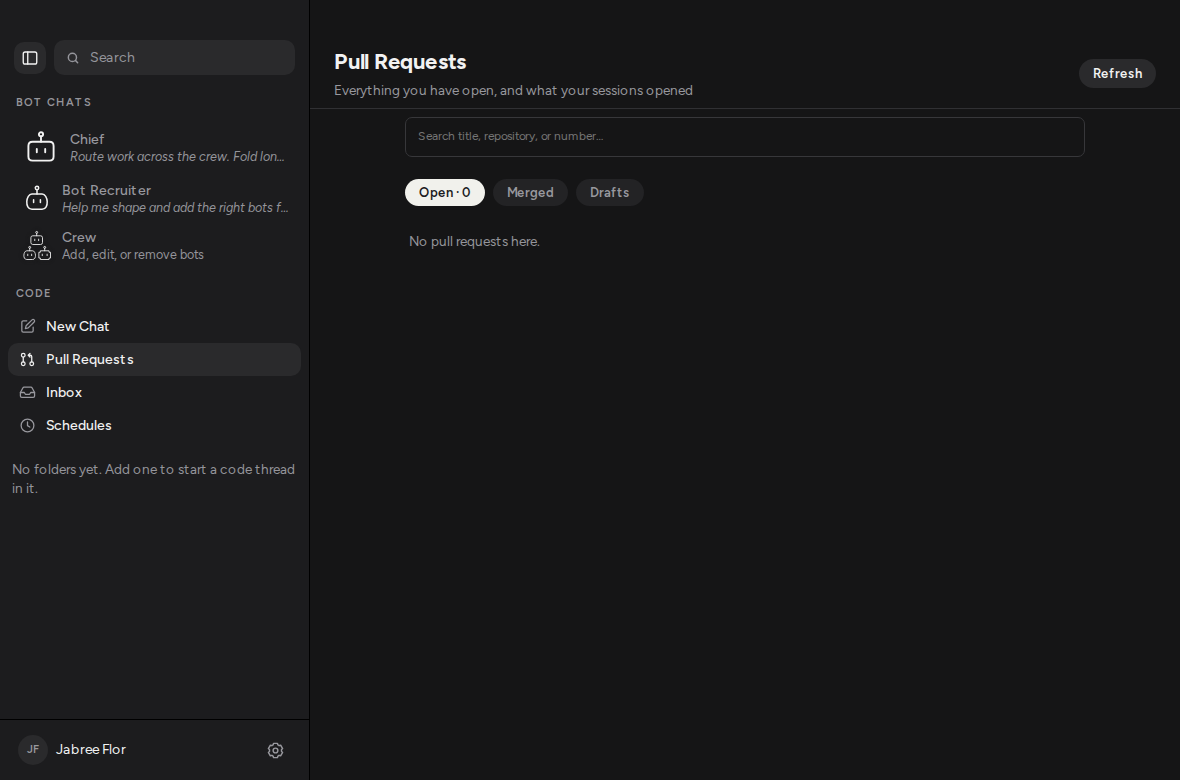
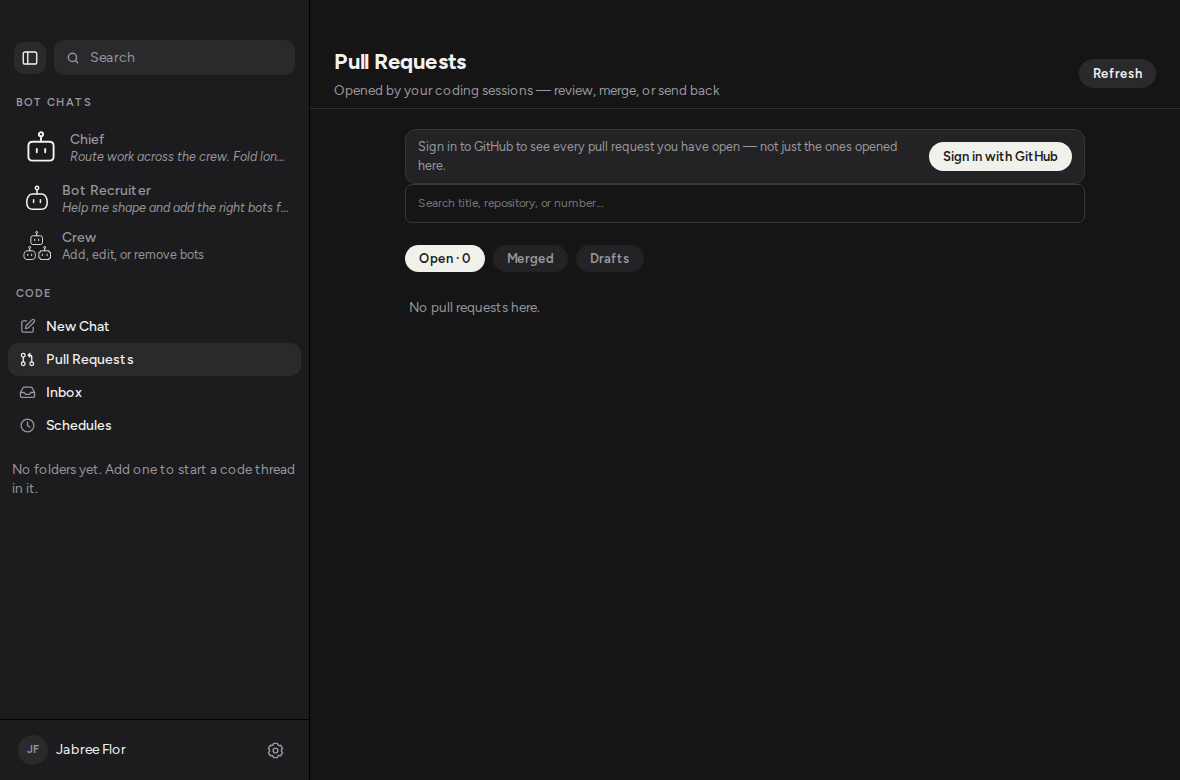
Pin the PR-board visual to a logged-out fixture gh.
The board subtitle and GitHub strip follow github/status. A developer
or Cloud Agent `gh` login hid the strip locally, so the baseline missed
the signed-out empty board that CI paints. Put a fixture gh first on
PATH, assert Sign in with GitHub, and refresh only the PR shots.

Changed region(s): [[0.3356, 0.1538, 0.9153, 0.2769], [0.3356, 0.3077, 0.5492, 0.4], [0.2746, 0.0923, 0.6102, 0.1231]]

diff --git a/tests/browser/visual.spec.ts b/tests/browser/visual.spec.ts
@@ -7,7 +7,8 @@
  */
 import { expect, type Locator, type Page } from "@playwright/test";
 
-import { test } from "./fixtures";
+import { browserTest, test } from "./fixtures";
+import { createFakeGh } from "./helpers/gh";
 import {
   type CaptureTheme,
   type WindowSize,
@@ -21,6 +22,12 @@ import {
   seedSchedule,
 } from "./support/seed";
 import { agentBubble } from "./ui";
+
+/** Logged-out fixture `gh` so the board does not inherit a developer login. */
+const prVisual = browserTest(() => ({
+  pathPrefix: [createFakeGh().dir],
+  extraEnv: { GH_TOKEN: "", GITHUB_TOKEN: "" },
+}));
 
 const THEMES: readonly CaptureTheme[] = ["dark", "light"];
 
@@ -176,7 +183,7 @@ test.describe("stable states @visual", () => {
     }
   });
 
-  test("pr workspace @chromium-only", async ({ app, browser }) => {
+  prVisual("pr workspace @chromium-only", async ({ app, browser }) => {
     for (const theme of THEMES) {
       const opened = await openApp(browser, app, {
         theme,
@@ -189,15 +196,14 @@ test.describe("stable states @visual", () => {
         await expect(
           opened.page.getByRole("heading", { name: "Pull Requests" }),
         ).toBeVisible();
-        await shot(opened.page, `pr-board-${theme}-desktop`);
         const signIn = opened.page.getByRole("button", {
           name: "Sign in with GitHub",
         });
-        if (await signIn.isVisible()) {
-          await signIn.click();
-          await expect(opened.page.getByRole("dialog")).toBeVisible();
-          await shot(opened.page, `pr-signin-${theme}-desktop`);
-        }
+        await expect(signIn).toBeVisible();
+        await shot(opened.page, `pr-board-${theme}-desktop`);
+        await signIn.click();
+        await expect(opened.page.getByRole("dialog")).toBeVisible();
+        await shot(opened.page, `pr-signin-${theme}-desktop`);
       } finally {
         await opened.close();
       }
